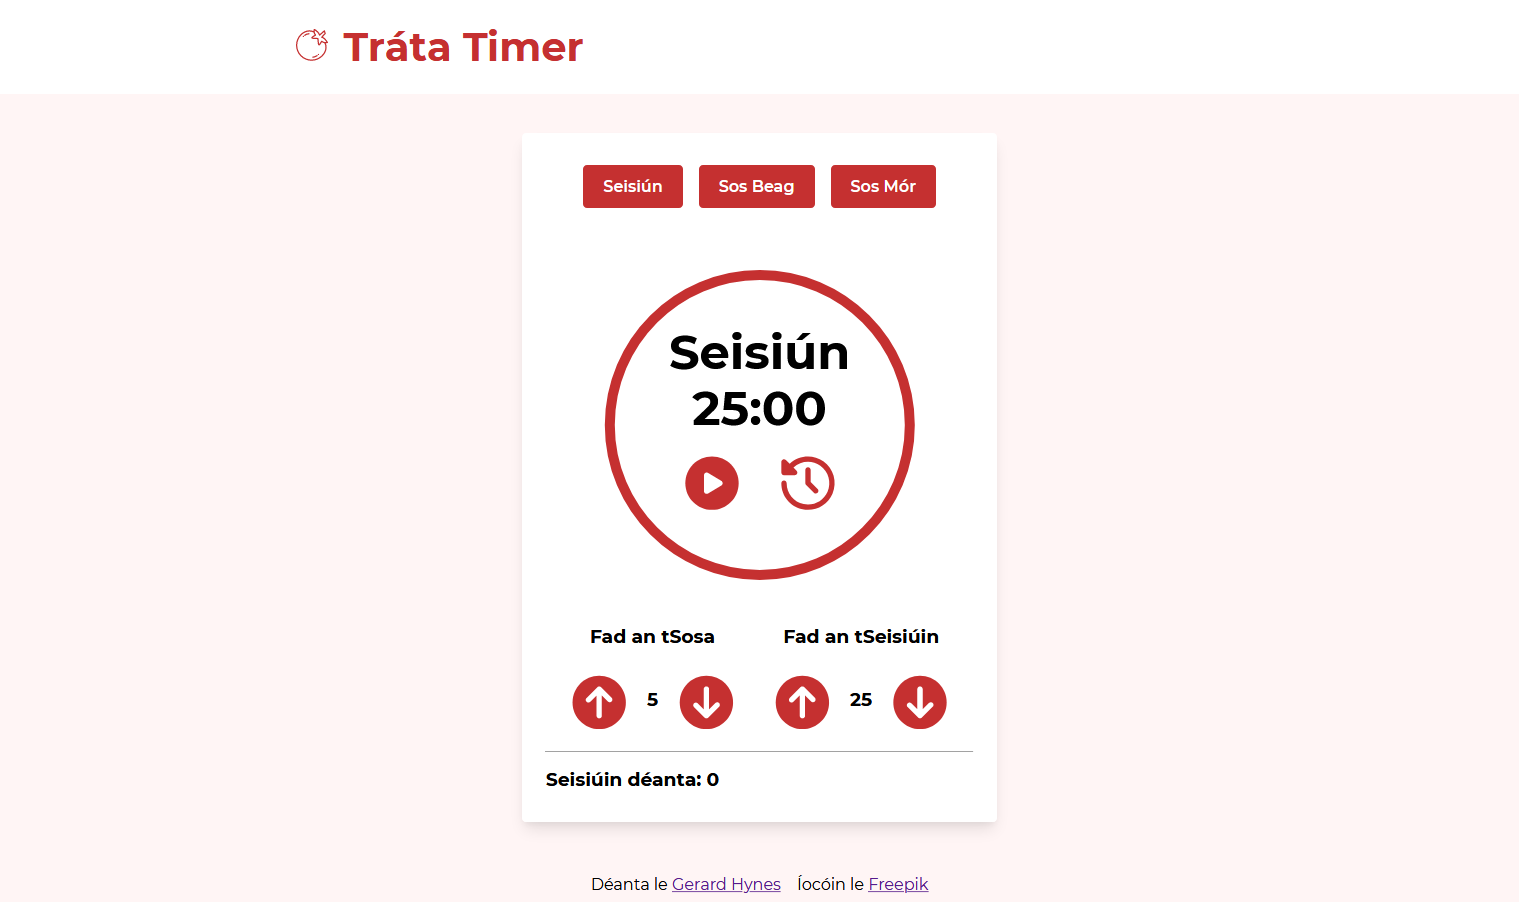
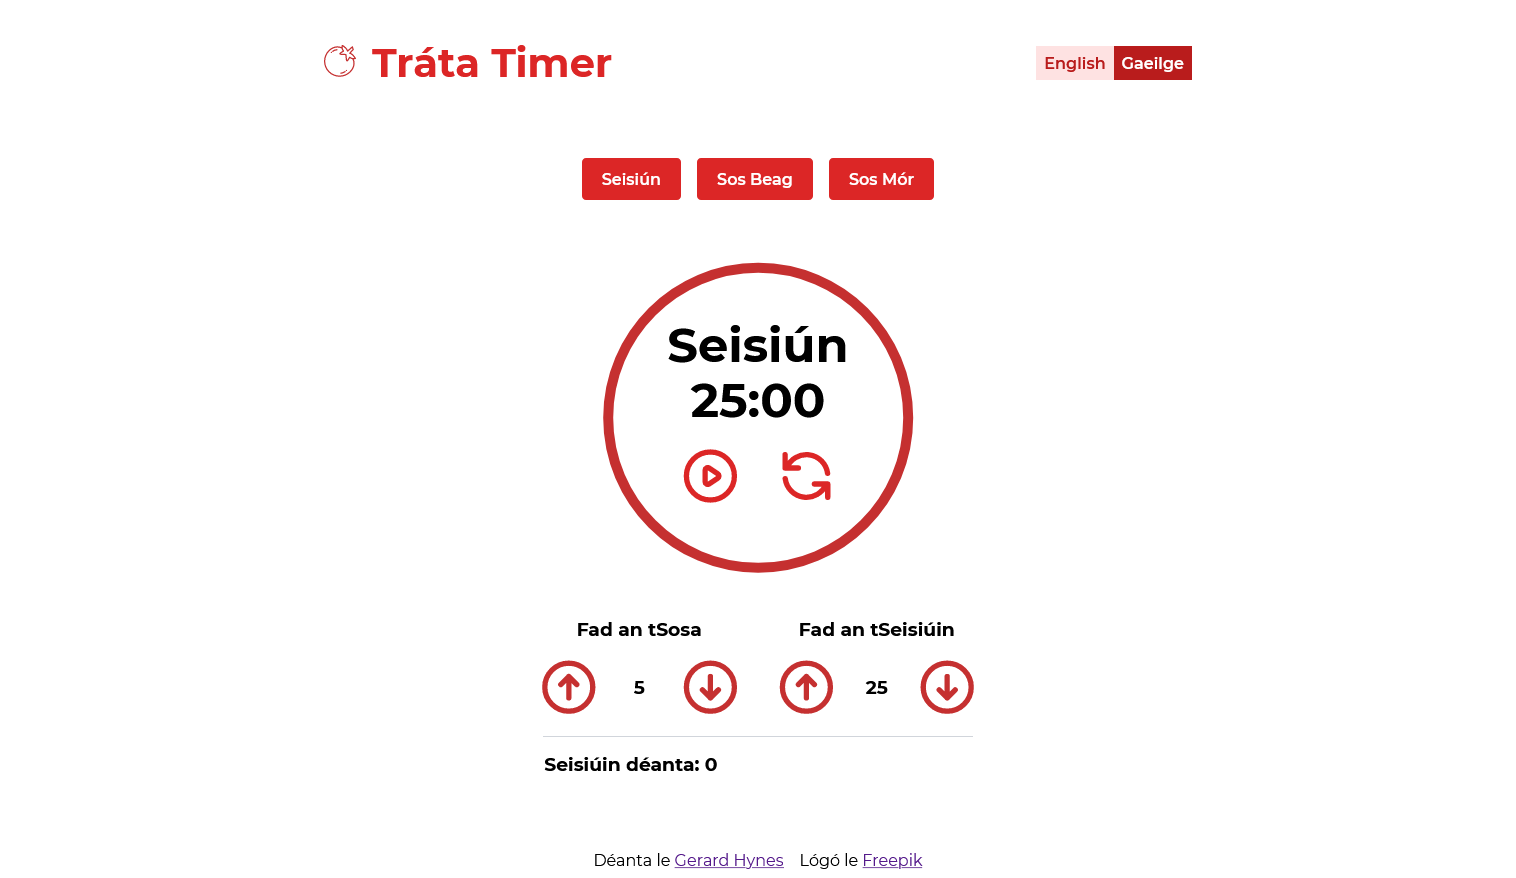
Update trata timer details

diff --git a/src/pages/projects.js b/src/pages/projects.js
@@ -145,7 +145,7 @@ function Projects({ data }) {
           <ProjectTextStyles>
             <h3>Tráta Timer</h3>
             <p>
-              A Pomodoro timer I built to help me focus when learning new
+              A bilingual Pomodoro timer I built to help me focus when learning new
               technologies.
             </p>
             <ProjectLinkStyles to="/trata-timer">
@@ -154,6 +154,7 @@ function Projects({ data }) {
             <ProjectTagsStyles>
               <li>#React</li>
               <li>#Gatsby</li>
+              <li>#i18n</li>
             </ProjectTagsStyles>
           </ProjectTextStyles>
 
